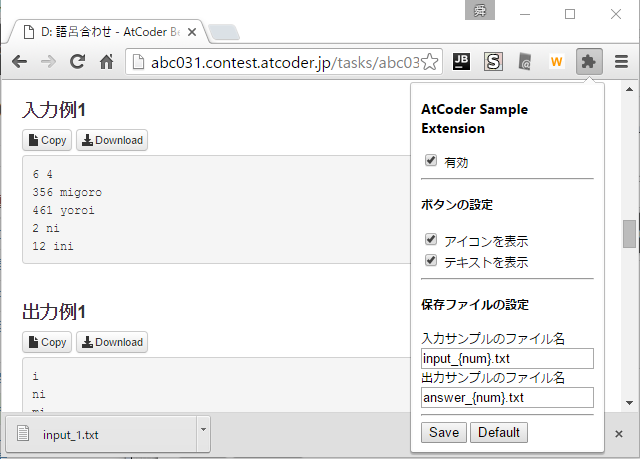
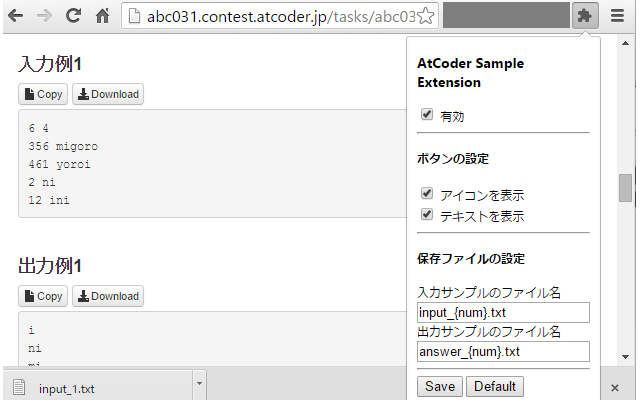
画像の追加とreadmeの修正

Changed region(s): [[0.0, 0.0, 1.0, 1.0], [0.625, 0.33, 0.9375, 0.69], [0.0, 0.21, 0.25, 0.57]]

diff --git a/README.md b/README.md
@@ -1,3 +1,6 @@
 # AtCoderSampleExtension
 
-AtCoderの問題ページに、サンプルテキストのコピーボタンとダウンロードボタンを追加するChrome Extension。
+AtCoderの問題ページに、サンプルテキストのコピーボタンとダウンロードボタンを追加するChrome Extension。  
+*※本プラグインは非公式プラグインです。*
+
+![screenshot](img/image4.png)
